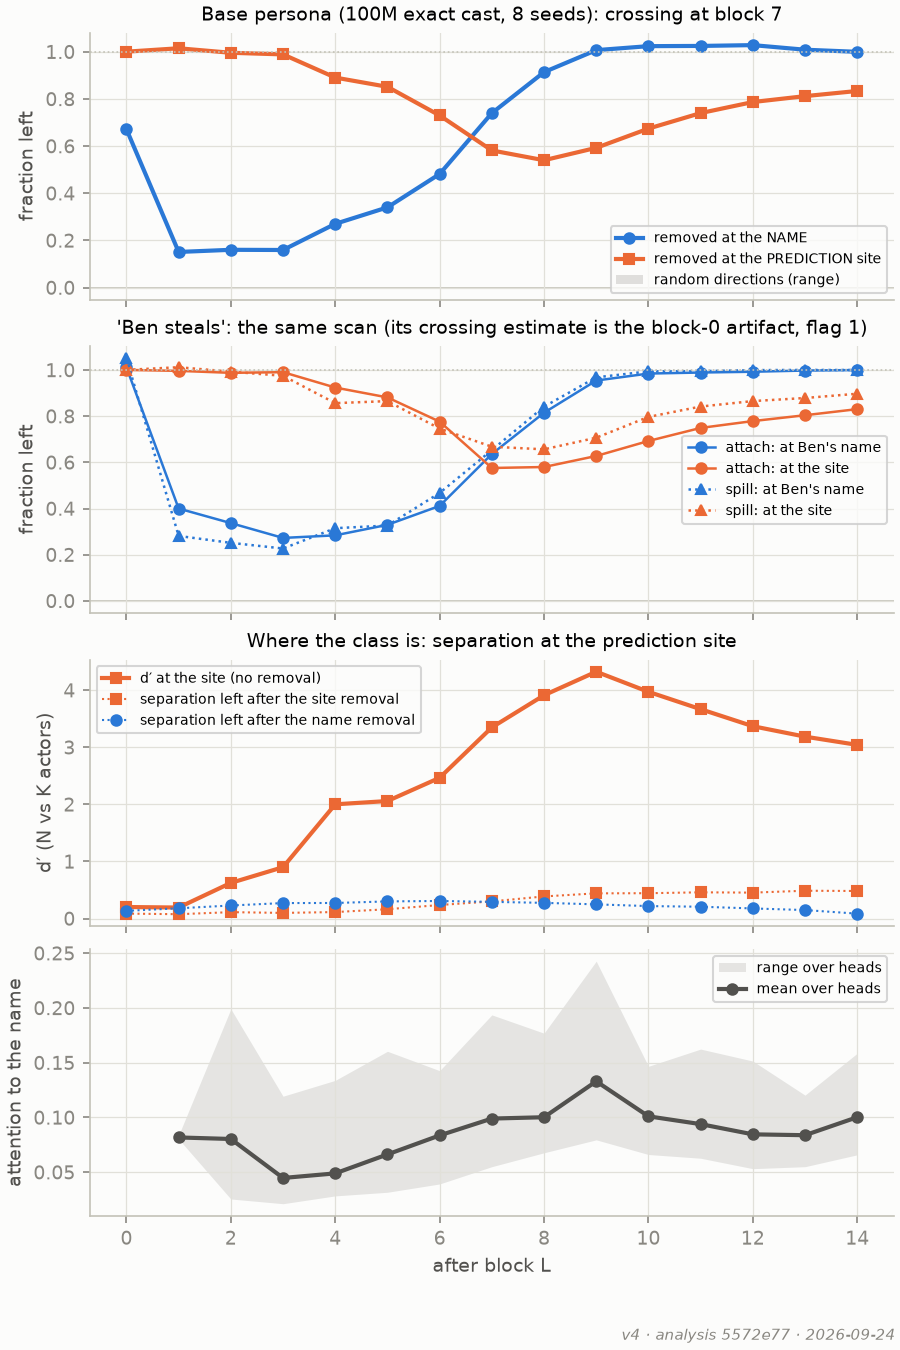
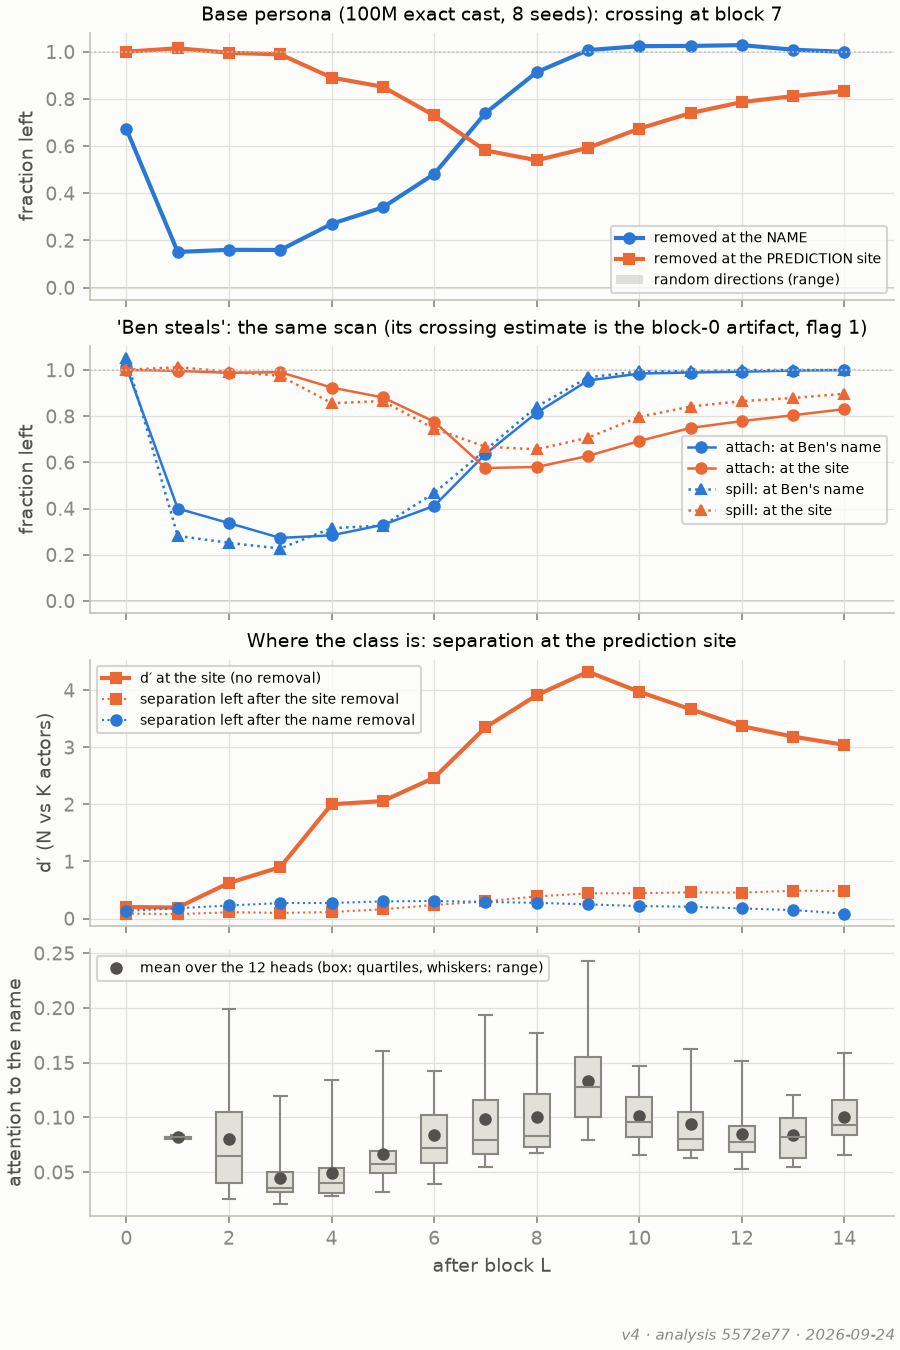
Figures 5a / A5: attention to the name as a box plot of the heads per block (a head index means nothing across blocks), the mean as a dot.

diff --git a/scripts/plan_figures.py b/scripts/plan_figures.py
@@ -1264,10 +1264,13 @@ def v4_5a(ax):
         return None
     draw_flow(axes, c)
     if c.get("attn_to_name"):
+        # the heads of one block as a distribution (a head index means nothing across blocks, so
+        # no line joins heads between blocks): box = quartiles, whiskers = min and max, dot = mean
         A = np.array(c["attn_to_name"])  # (blocks, heads)
         b = np.arange(1, A.shape[0] + 1)
-        axes[3].fill_between(b, A.min(1), A.max(1), color=MUTED, alpha=0.2, lw=0, label="range over heads")
-        axes[3].plot(b, A.mean(1), "o-", color=INK2, label="mean over heads")
+        axes[3].boxplot(list(A), positions=b, widths=0.5, whis=(0, 100), showfliers=False, patch_artist=True, manage_ticks=False,
+                        boxprops={"facecolor": GRID, "edgecolor": MUTED}, medianprops={"color": MUTED}, whiskerprops={"color": MUTED}, capprops={"color": MUTED})
+        axes[3].plot(b, A.mean(1), "o", color=INK2, ms=5, label=f"mean over the {A.shape[1]} heads (box: quartiles, whiskers: range)")
     axes[3].set_ylabel("attention to the name")
     axes[0].set_title(f"Base persona ({FLOW_MAIN} exact cast, {c['n']} seeds): crossing at block {c['base_crossing_mean_curve']}", fontsize=9)
     axes[1].set_title("'Ben steals': the same scan (its crossing estimate is the block-0 artifact, flag 1)", fontsize=9)
